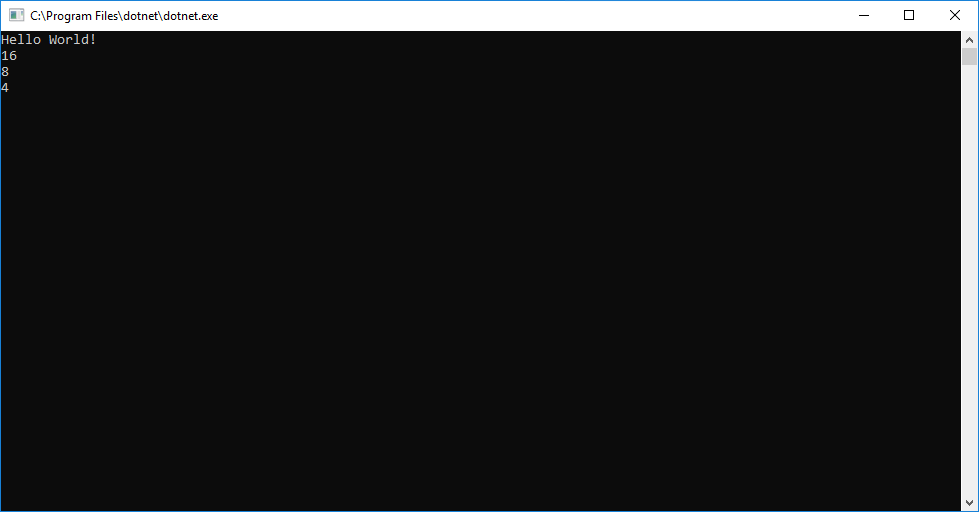
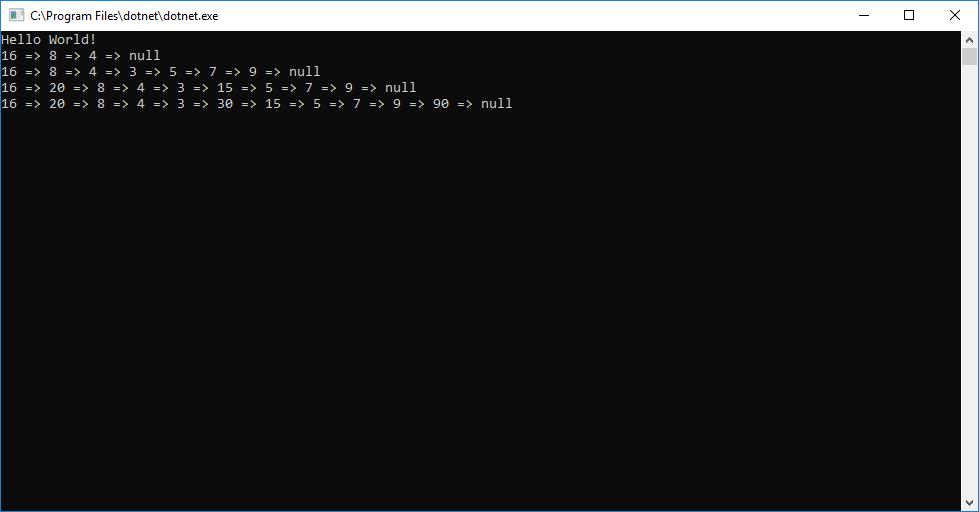
Edited Readme with new pic and edited some of the goals/challenges to complete

diff --git a/Data Structures/Linked_List/Linked_List/Program.cs b/Data Structures/Linked_List/Linked_List/Program.cs
@@ -27,14 +27,7 @@ namespace Linked_List
             list.Print();
             list.InsertAfter(3, 30);
             list.InsertAfter(9, 90);
-            list.Print();
-            Console.WriteLine("-------------------");
-            Console.Write(list.Includes(16));
-            Console.Write(list.Includes(7));
-            Console.Write(list.Includes(20));
-            Console.WriteLine(list.Includes(30));
-            Console.WriteLine("-------------------------");
-            Console.Write(list.Includes(300));
+            list.Print();            
             Console.ReadLine();
 
         }

diff --git a/Data Structures/Linked_List/Linked_List-ReadME.md b/Data Structures/Linked_List/Linked_List-ReadME.md
@@ -11,6 +11,9 @@ This project displays the values of each node in a generated Linked list display
 -create a insert method that takes a value and adds it to the front of the LL  
 -create a includes method that checks a value agaisnt all values in the ll and returns true if found or false if not found  
 -create a print method that displays the values of all Nodes in the LL in the console  
+-create a append method which adds a new node witha given value to the end of the list  
+-create a insertBefore method which add a new node with the given value immediately before a given value  
+-create a insertAfter method which add a new node with the give value immedietely after a given value  
 
 
 <h2>Setup: </h2>
